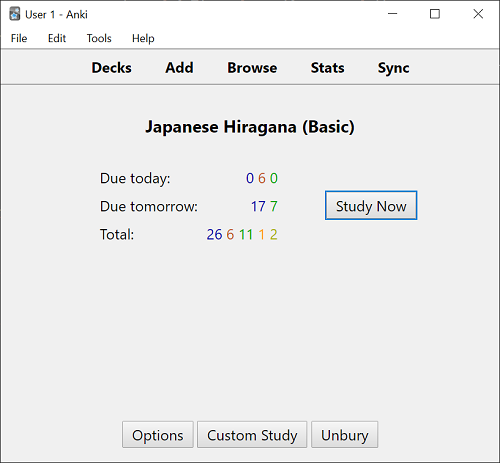
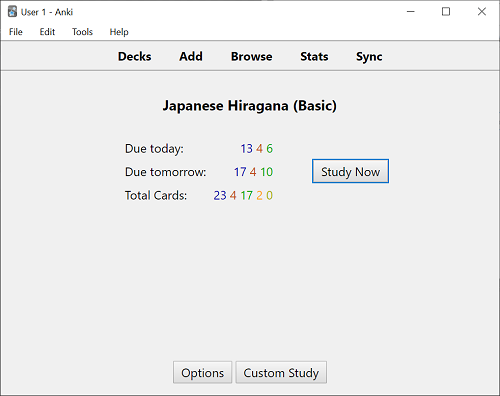
reformat & bug fix

diff --git a/more_overview_stats/__init__.py b/more_overview_stats/__init__.py
@@ -4,6 +4,8 @@ https://ankiweb.net/shared/info/2116130837
 """
 
 # pylint: disable=import-error
+# pylint: disable=undefined-variable
+# queue types: 0=new/cram, 1=lrn, 2=rev, 3=day lrn, -1=suspended, -2=buried
 from anki.utils import ids2str
 from aqt.overview import Overview
 
@@ -19,80 +21,84 @@ def table(self):
     finished = not sum(counts)
     counts = _limit(counts)
     
-    dueTomorrow = _limit([
-        min(dconf.get('new').get('perDay'), _count_cards(deck, sched, 'new')), 
+    totals = [
+        #new 
         sched.col.db.scalar("""
-            select count() from cards where did in %s and queue in (2,3)
-            and due = ?""" % sched._deckLimit(), sched.today+1)
-    ])
-    
-    totals = _limit([
-        _count_cards(deck, sched, 'new'),
-        _count_cards(deck, sched, 'lern'),
-        _count_cards(deck, sched, 'review'),
-        _count_cards(deck, sched, 'buried'),
-        _count_cards(deck, sched, 'suspended')
-    ])
+            select count() from (select 1 from cards where did = %s 
+            and queue = 0)""" % deck.get('id')),
+        # lern
+        sched.col.db.scalar("""
+            select count() from (select id from cards where did = %s 
+            and queue in (1,3))""" % deck.get('id')),
+        # review
+        sched.col.db.scalar("""
+            select count() from (select id from cards where did = %s 
+            and queue = 2)""" % deck.get('id')),
+         # suspended
+        sched.col.db.scalar("""
+            select count() from (select id from cards where did = %s 
+            and queue = -1)""" % deck.get('id')),
+        # buried
+        sched.col.db.scalar("""
+            select count() from (select id from cards where did = %s 
+            and queue = -2)""" % deck.get('id')),
+    ]
 
-    # No need to show stats if we have finished collection today
+    if (dconf.get('new')):
+        dueTomorrow = _limit([
+            # new
+            min(dconf.get('new').get('perDay'), totals[0]),
+            # lern
+           counts[1],
+            # review
+            sched.col.db.scalar("""
+                select count() from cards where did in %s and queue in (2)
+                and due <= ?""" % sched._deckLimit(), sched.today + 1)
+        ])
+
+    html = ''
+
+    # No need to show due if we have finished collection today
     if finished:
         mssg = sched.finishedMsg()
-        # pylint: disable=undefined-variable
-        return '''
-        <div style="white-space: pre-wrap;">%s</div>
-        <table cellspacing=5>
-            <tr><td>%s:</td><td align=right>
-                <font title="new" color=#00a>%s</font>
-                <font title="review" color=#0a0>%s</font>
-            </td></tr>
+        html +=  '''
+            <div style="white-space: pre-wrap;">%s</div>
+            <table cellspacing=5>''' % mssg
+    else:
+        html +='''
+            <table width=300 cellpadding=5>
+            <tr><td align=center valign=top>
+            <table cellspacing=5>
             <tr><td>%s:</td><td align=right>
                 <font title="new" color=#00a>%s</font>
                 <font title="lern" color=#C35617>%s</font>
                 <font title="review" color=#0a0>%s</font>
-                <font title="buried" color=#ffa500>%s</font>
-                <font title="suspended" color=#adb300>%s</font>
-            </td></tr>
-        </table>
-        ''' % (
-            mssg, _("Due tomorrow"), dueTomorrow[0], dueTomorrow[1],
-            _("Total"), totals[0], totals[1], totals[2], totals[3], totals[4])
+            </td></tr>''' % (_("Due today"), counts[0], counts[1], counts[2]) 
+        
+    if (dconf.get('new')):
+        html += '''
+            <tr><td>%s:</td><td align=right>
+                <font title="new" color=#00a>%s</font>
+                <font title="lern" color=#C35617>%s</font>
+                <font title="review" color=#0a0>%s</font>
+            </td></tr>''' % (_("Due tomorrow"), dueTomorrow[0], 
+            dueTomorrow[1], dueTomorrow[2])
+    html += '''
+        <tr><td>%s:</td><td align=right>
+            <font title="new" color=#00a>%s</font>
+            <font title="lern" color=#C35617>%s</font>
+            <font title="review" color=#0a0>%s</font>
+            <font title="buried" color=#ffa500>%s</font>
+            <font title="suspended" color=#adb300>%s</font>
+        </td></tr>
+    </table>''' % (_("Total Cards"), totals[0], totals[1], totals[2], totals[3], 
+    totals[4])
 
-    # pylint: disable=undefined-variable
-    return '''
-    <table width=300 cellpadding=5>
-    <tr><td align=center valign=top>
-    <table cellspacing=5>
-    <tr><td>%s:</td><td align=right>
-        <font title="new" color=#00a>%s</font>
-        <font title="lern" color=#C35617>%s</font>
-        <font title="review" color=#0a0>%s</font>
-    </td></tr>
-    <tr><td>%s:</td><td align=right>
-        <font title="new" color=#00a>%s</font>
-        <font title="review" color=#0a0>%s</font>
-    </td></tr>
-    <tr><td>%s:</td><td align=right>
-        <font title="new" color=#00a>%s</font>
-        <font title="lern" color=#C35617>%s</font>
-        <font title="review" color=#0a0>%s</font>
-        <font title="buried" color=#ffa500>%s</font>
-        <font title="suspended" color=#adb300>%s</font>
-    </td></tr>
-    </table>
-    </td><td align=center>
-    %s</td></tr></table>''' % (
-        _("Due today"), counts[0], counts[1], counts[2],
-        _("Due tomorrow"), dueTomorrow[0], dueTomorrow[1],
-        _("Total"), totals[0], totals[1], totals[2], totals[3], totals[4],
-        self.mw.button("study", _("Study Now"), id="study")) 
-
-def _count_cards(deck, sched, queue):
-    "Returns count of cards given queue"
-    queues = {'review': 2, 'lern': 1, 'new': 0, 'suspended': -1, 'buried': -2}
-    return  sched.col.db.scalar("""
-    select count() from cards where id in (
-        select id from cards where did = %s and queue = ? limit ?
-    )""" % deck.get('id'), queues.get(queue), sched.reportLimit)
+    if not finished:
+        html += '</td><td align=center>%s</td></tr></table>' % (
+            self.mw.button("study", _("Study Now"), id="study"))
+    
+    return html
 
 # If count is more than 1000, just show 1000+
 # todo: replace 1000 with sched.reportLimit?
